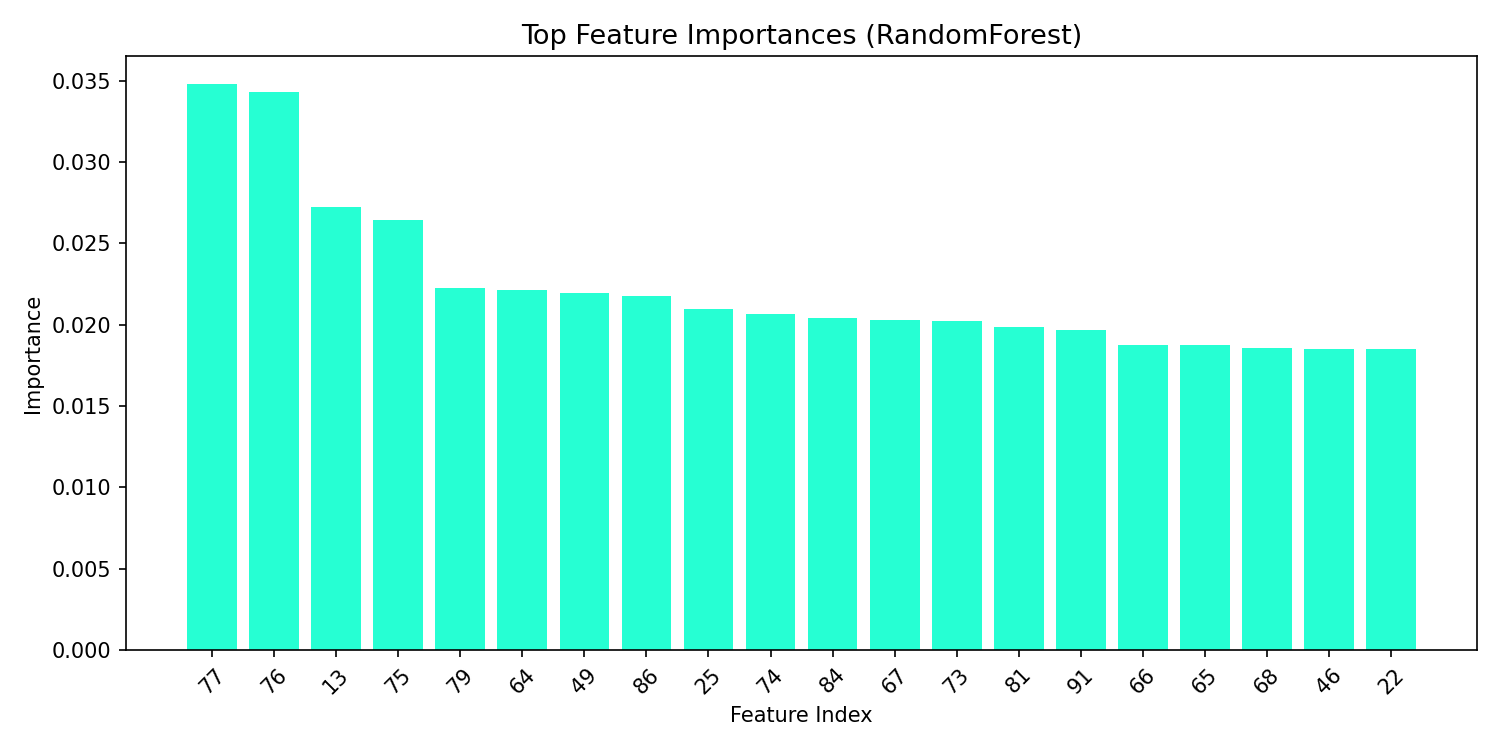
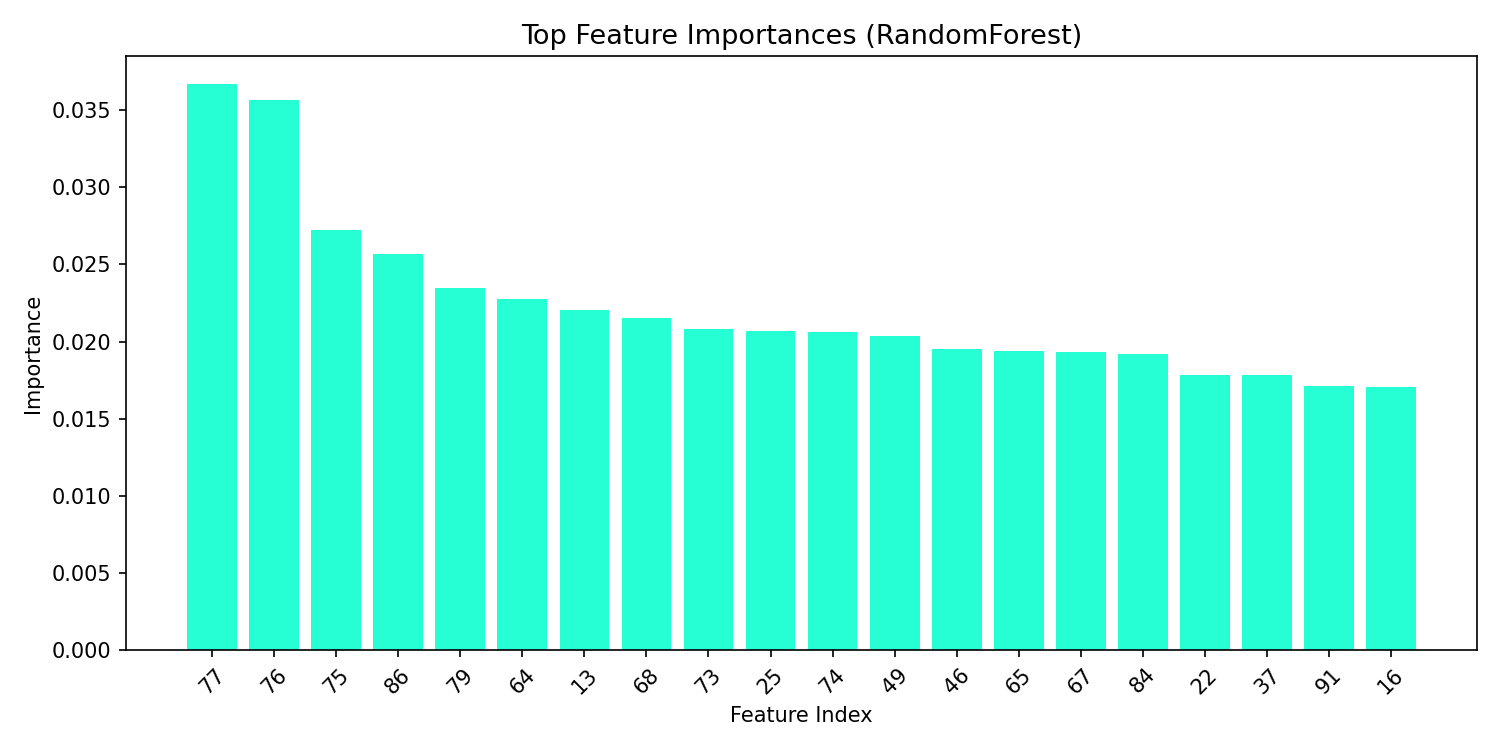
Fix Render OOM: reduced model size and added GC; resolved staged file issues

diff --git a/scratch/inspect_data.py b/scratch/inspect_data.py
@@ -1,0 +1,11 @@
+import pickle
+try:
+    with open('data.pickle', 'rb') as f:
+        d = pickle.load(f)
+        print(f"Keys: {list(d.keys())}")
+        print(f"Number of samples: {len(d['data'])}")
+        print(f"Features in first sample: {len(d['data'][0])}")
+        unique_labels = set(d['labels'])
+        print(f"Unique labels: {sorted(unique_labels)}")
+except Exception as e:
+    print(f"Error: {e}")

diff --git a/train_classifier.py b/train_classifier.py
@@ -52,8 +52,8 @@ print(f"\n[INFO] Train: {len(x_train)} | Test: {len(x_test)}")
 print("\n[TRAINING] RandomForestClassifier ...")
 
 model = RandomForestClassifier(
-    n_estimators=300,
-    max_depth=None,
+    n_estimators=80,
+    max_depth=15,
     min_samples_split=2,
     min_samples_leaf=1,
     max_features='sqrt',
@@ -133,7 +133,8 @@ meta = {
     "trained_at":       datetime.now().isoformat(),
     "hyperparameters": {
         "base": "RandomForestClassifier",
-        "n_estimators": 300,
+        "n_estimators": 80,
+        "max_depth": 15,
         "max_features": "sqrt",
         "class_weight": "balanced"
     }

diff --git a/app.py b/app.py
@@ -1,5 +1,6 @@
 import logging
 import os
+import gc
 from flask import Flask, request, jsonify, render_template
 from flask_cors import CORS
 from model_utils import load_model, load_model_metadata, predict_landmarks, PredictionSmoother
@@ -40,9 +41,13 @@ def ensure_model_loaded():
         model, le, meta = m, l, mt
         log.info(f"✅ Model loaded successfully — type: {meta.get('model_type','?')} "
                  f"accuracy: {meta.get('test_accuracy','?')}%")
+        
+        # Explicitly collect garbage after loading a large pickle to free memory spikes
+        gc.collect()
         return True
     else:
         log.error("❌ Failed to load model from model.p (check pickle compatibility)")
+        gc.collect()
         return False
 
 # Initial attempt